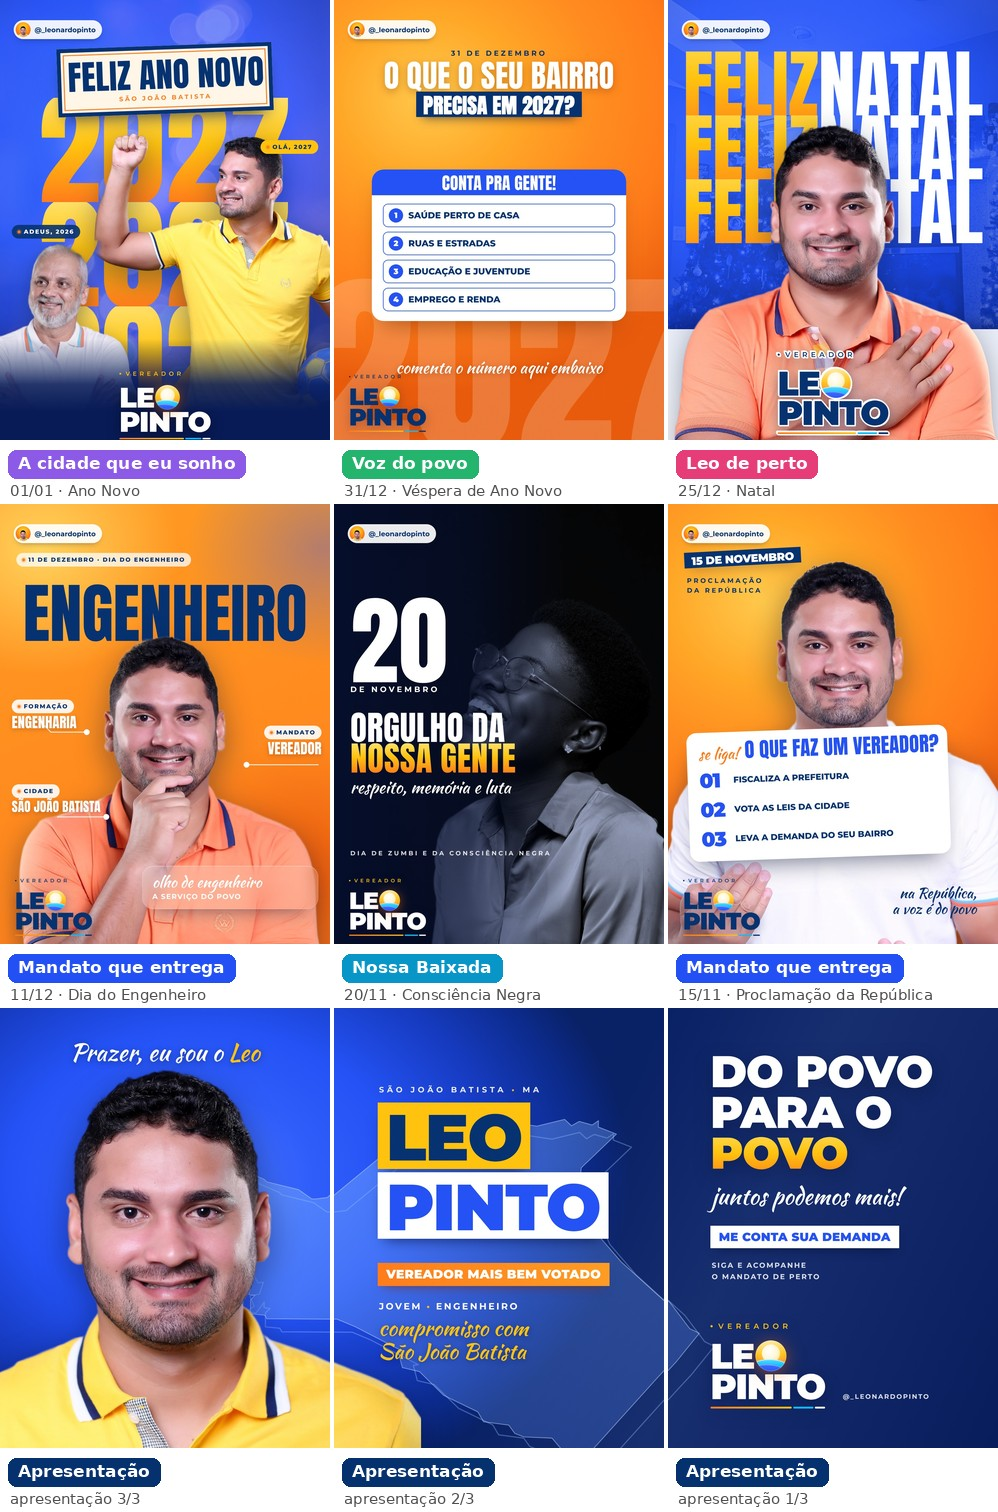
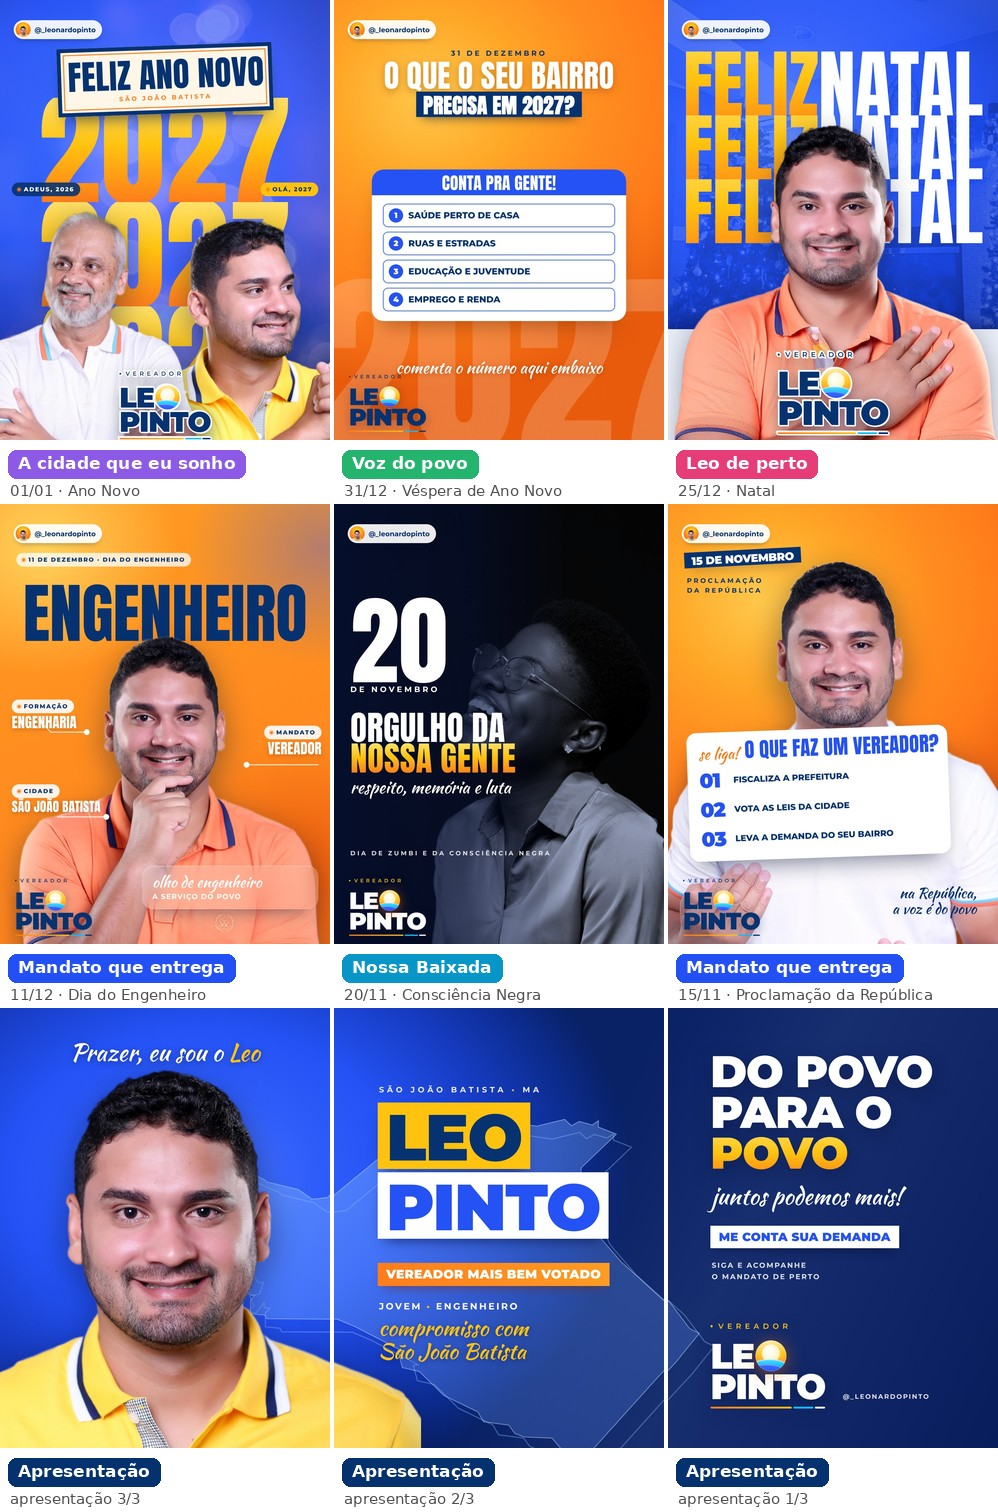
Leo Pinto: 01/01 de volta à primeira opção, os dois na mesma altura e olhando para lados opostos (conta Lindson)
Claude-Session: https://claude.ai/code/session_01EzoTfxmLAapRz57Gc77LRF

Changed region(s): [[0.0, 0.0622, 0.3417, 0.3108]]

diff --git a/agencia/clientes/leo-pinto/instagram-v14-datas/gerar9.py b/agencia/clientes/leo-pinto/instagram-v14-datas/gerar9.py
@@ -96,14 +96,13 @@ P.append(('p5-31-12', AMARELO, f"""
 #   para 2026 e Leo "novo" (foto 20, punho erguido, mais corpo) NA FRENTE, MAIOR e MAIS ALTO olhando para 2027, Leo velho atrás e menor (o ano que sai): cada um para um lado.
 P.append(('p6-01-01', AZUL, f"""<img class="a" src="assets/banco-luzes.jpg" style="inset:0;width:1080px;height:1350px;object-fit:cover;opacity:.35;mix-blend-mode:screen">
 <div class="a" style="left:0;width:1080px;top:300px;text-align:center">{''.join(f'<div class="H" style="font-size:390px;line-height:.82;{GRAD}">2027</div>' for _ in range(3))}</div>
-{foto('leo-30-velho-fino.png', 215, 880, 300, 560, .45, extra='filter:drop-shadow(0 20px 30px rgba(2,12,50,.4)) saturate(.85) brightness(.96)', coberta=('direita',))}
-{foto('leo-20-fino.png', 800, 560, 230, 725, .66)}
-<div class="a" style="left:0;top:1040px;width:1080px;height:310px;background:linear-gradient(180deg,rgba(7,26,85,0) 0,rgba(7,26,85,.88) 45%,#071A55 72%)"></div>
+{foto('leo-19-fino-esp.png', 780, 830, 300, 718, .53, coberta=('esquerda',))}
+{foto('leo-30-velho-fino.png', 300, 830, 300, 560, .62)}
 <div class="a" style="left:210px;top:140px;width:660px;transform:rotate(-2deg);background:#FFF6E8;border:12px solid {MAR};outline:3px solid {LAR};outline-offset:-22px;padding:30px 20px 26px;text-align:center;box-shadow:0 30px 50px -24px rgba(2,12,50,.7)">
  {H('Feliz ano novo', 104, MAR, 'line-height:.9')}<div class="L" style="font-size:19px;color:{LAR};margin-top:12px">São João Batista</div></div>
-<div class="a" style="left:70px;top:690px">{CHIP('Adeus, 2026', '#fff', 'rgba(5,49,110,.9)')}</div>
-<div class="a" style="right:70px;top:430px">{CHIP('Olá, 2027', MAR, '#FFC20E')}</div>
-<img class="a" src="assets/logo.png" style="left:400px;top:1140px;width:280px;filter:drop-shadow(0 10px 20px rgba(0,0,0,.45))">"""))
+<div class="a" style="left:70px;top:560px">{CHIP('Adeus, 2026', '#fff', 'rgba(5,49,110,.9)')}</div>
+<div class="a" style="right:70px;top:560px">{CHIP('Olá, 2027', MAR, '#FFC20E')}</div>
+<img class="a" src="assets/logo-marinho-forte.png" style="left:400px;top:1140px;width:280px;filter:drop-shadow(2.5px 0 0 #fff) drop-shadow(-2.5px 0 0 #fff) drop-shadow(0 2.5px 0 #fff) drop-shadow(0 -2.5px 0 #fff) drop-shadow(2px 2px 0 #fff) drop-shadow(-2px -2px 0 #fff) drop-shadow(0 12px 20px rgba(2,12,50,.4))">"""))
 secs = ''.join(f'<section class="f" id="{i}" style="background:{bg}">{c}{ASSINA(bg, i)}<div class="a" style="inset:0;background-image:url(&quot;{GRAO}&quot;);opacity:.10;mix-blend-mode:overlay;pointer-events:none"></div></section>' for i, bg, c in P)
 html = f"""<!doctype html><html><head><meta charset="utf-8">
 <link href="https://fonts.googleapis.com/css2?family=Anton&family=Kaushan+Script&family=Montserrat:wght@600;700;800;900&display=swap" rel="stylesheet">
